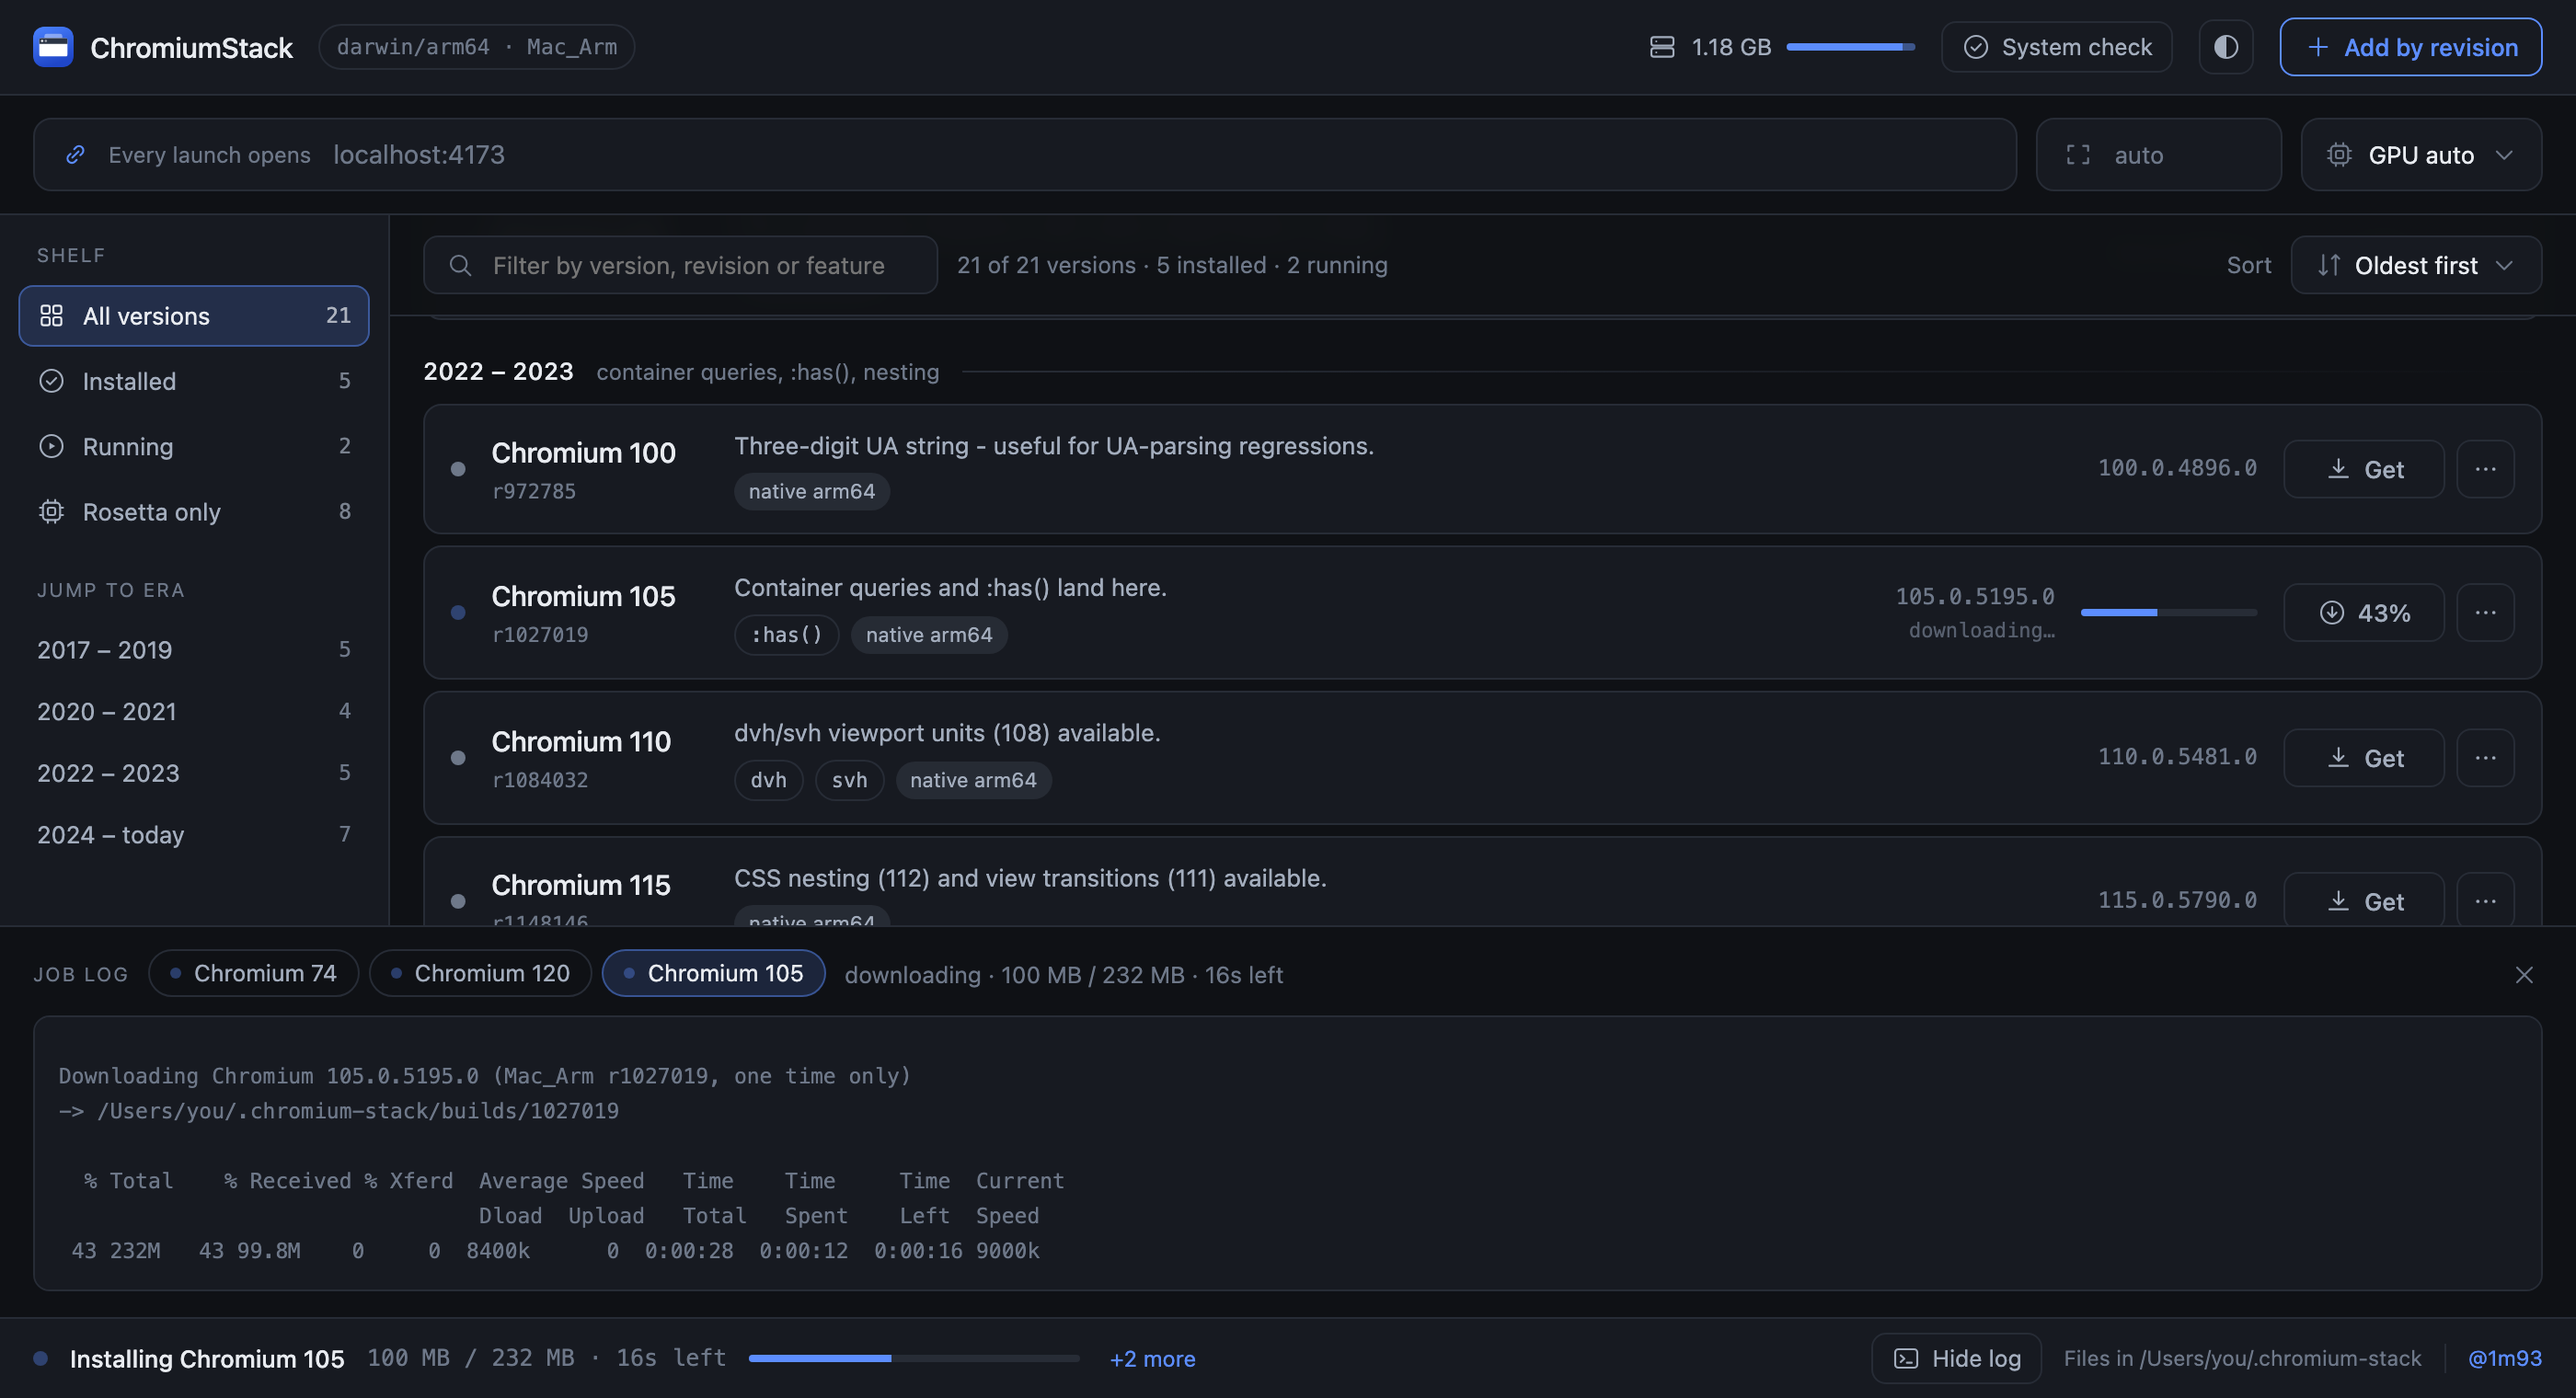
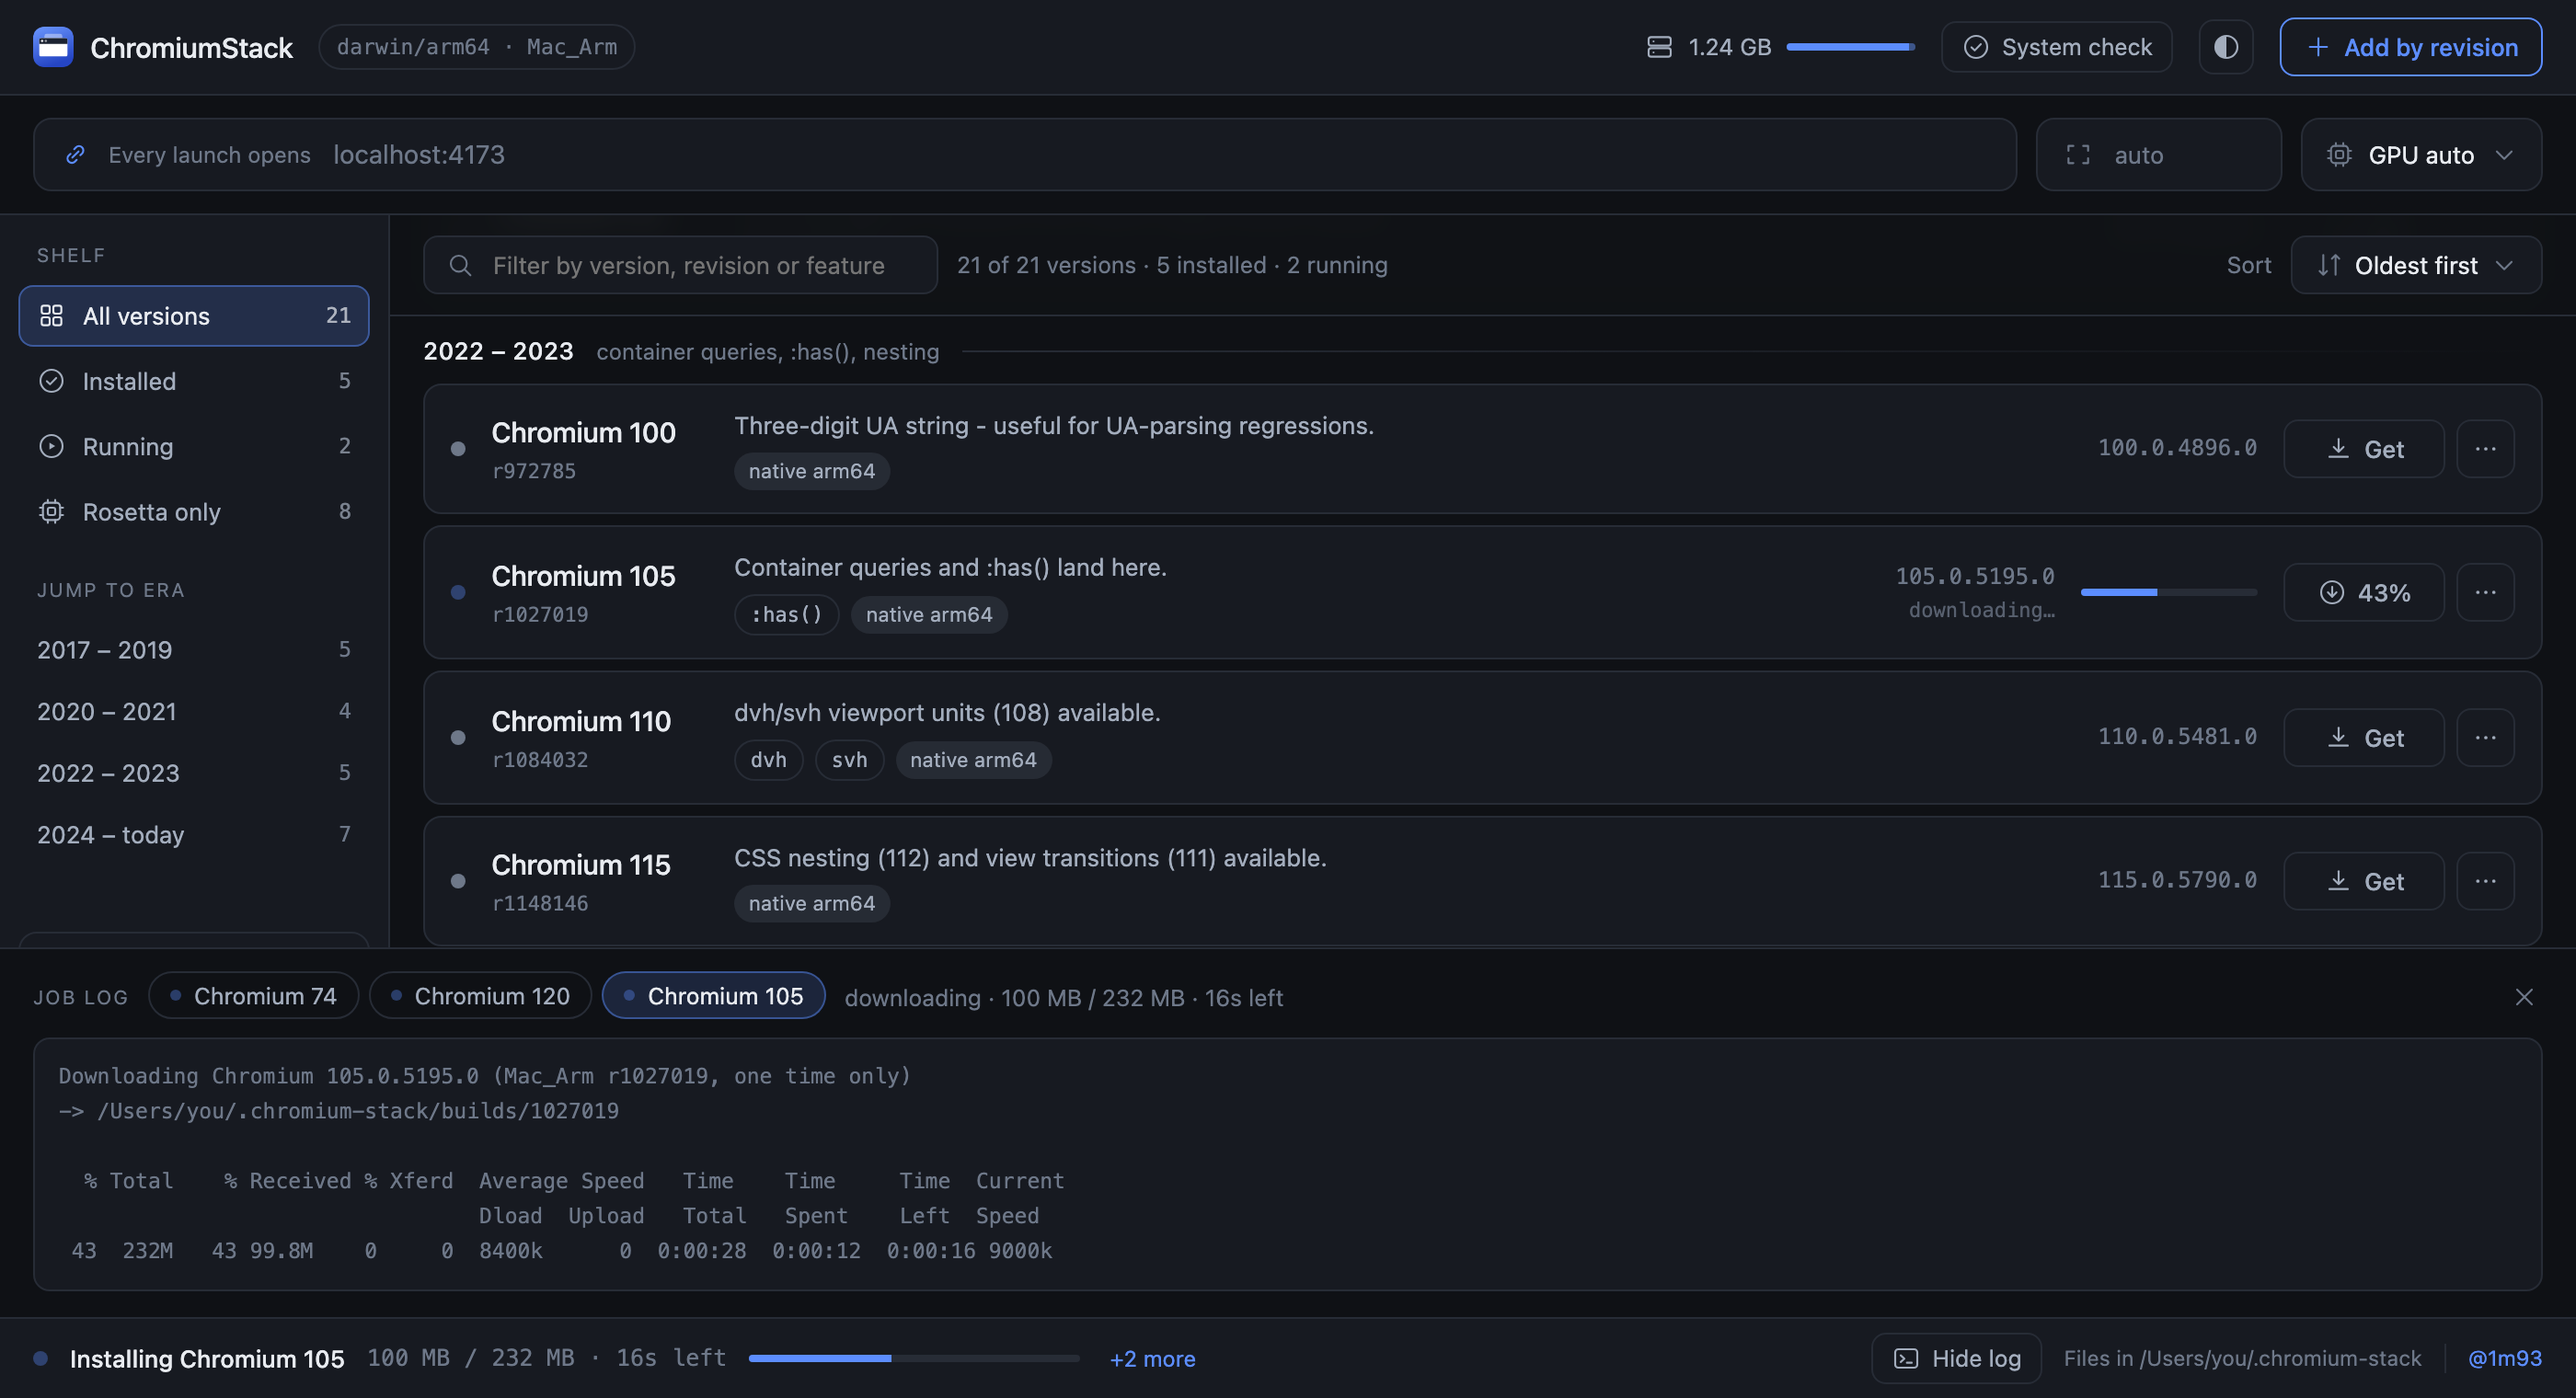
feat: update landing page

diff --git a/docs/index.html b/docs/index.html
@@ -94,6 +94,15 @@ details[open] [data-chev]{transform:rotate(45deg)}
 @keyframes caret{0%,49%{opacity:1}50%,100%{opacity:0}}
 @keyframes pulse{50%{opacity:.3}}
 @keyframes glowdrift{0%,100%{transform:translate(0,0) scale(1)}50%{transform:translate(4%,-3%) scale(1.08)}}
+/* ---------- the same window, dark and light ----------
+   Two identical captures stacked; only the top one animates. The dark frame is
+   what shows at rest, so with animation off the shot still matches the page's
+   own default theme. */
+.shot-swap{position:relative}
+.shot-swap picture{display:block}
+.shot-swap .shot-top{position:absolute;inset:0;animation:shotSwap 16s ease-in-out infinite}
+@keyframes shotSwap{0%,42%{opacity:1}50%,92%{opacity:0}100%{opacity:1}}
+
 /* ---------- the sixty-seconds demo ----------
    One 11s CSS loop drives the whole thing: the three step cards light up in
    turn, the cursor presses Get, the row downloads, then the browser opens.
@@ -227,7 +236,7 @@ details[open] [data-chev]{transform:rotate(45deg)}
       "downloadUrl": "https://github.com/1m93/Chromium-Stack/releases/latest",
       "installUrl": "https://github.com/1m93/Chromium-Stack/releases/latest",
       "softwareHelp": "https://1m93.github.io/Chromium-Stack/#start",
-      "screenshot": "https://1m93.github.io/Chromium-Stack/assets/screenshot-manager.png?v=2",
+      "screenshot": "https://1m93.github.io/Chromium-Stack/assets/screenshot-jobs.png?v=3",
       "image": "https://1m93.github.io/Chromium-Stack/assets/og-image.png?v=2",
       "isAccessibleForFree": true,
       "offers": {
@@ -552,17 +561,7 @@ details[open] [data-chev]{transform:rotate(45deg)}
     </figure>
   </div>
 
-  <figure data-reveal style="margin:52px 0 0">
-    <div style="border:1px solid var(--line);border-radius:16px;overflow:hidden;background:var(--panel);box-shadow:var(--shadow)">
-      <picture>
-        <source srcset="assets/screenshot-manager.webp?v=2" type="image/webp">
-        <img src="assets/screenshot-manager.png?v=2" width="2800" height="1520" loading="lazy" decoding="async" alt="The ChromiumStack manager: every catalogued Chromium milestone grouped by era, five of them installed, Chromium 74 running, each row showing its revision, the features it does and does not have, and what it costs in disk" style="display:block;width:100%;height:auto" />
-      </picture>
-    </div>
-    <figcaption style="margin-top:14px;font-size:13px;line-height:1.6;color:var(--ink-3);max-width:80ch;text-wrap:pretty">Every catalogued milestone on one page, grouped by what it is useful for — which are installed, which run natively, which go through Rosetta, what each is costing you in disk, and one button to open any of them.</figcaption>
-  </figure>
-
-  <div data-reveal style="display:flex;gap:14px;margin-top:26px;padding:18px 20px;border:1px solid color-mix(in srgb,var(--ok) 40%,var(--line));border-radius:12px;background:color-mix(in srgb,var(--ok) 7%,var(--panel))">
+  <div data-reveal style="display:flex;gap:14px;margin-top:34px;padding:18px 20px;border:1px solid color-mix(in srgb,var(--ok) 40%,var(--line));border-radius:12px;background:color-mix(in srgb,var(--ok) 7%,var(--panel))">
     <span style="font-family:var(--mono);font-size:11px;letter-spacing:.06em;text-transform:uppercase;color:var(--ok);padding-top:2px;display:inline-flex;align-items:center;gap:7px"><svg class="ic" aria-hidden="true"><use href="#i-bulb"/></svg><span>Tip</span></span>
     <p style="margin:0;font-size:14.5px;line-height:1.62;color:var(--ink-2)">Type a URL in the box at the top of the manager and <strong style="color:var(--ink);font-weight:600">every</strong> version you launch opens straight to it. <code style="font-family:var(--mono);font-size:13px;color:var(--ink)">localhost:4173</code> is fine — it is the fastest way to compare four engines on the same page.</p>
   </div>
@@ -574,36 +573,19 @@ details[open] [data-chev]{transform:rotate(45deg)}
     <h2 data-reveal style="margin:14px 0 0;max-width:34ch;font-size:clamp(26px,3.2vw,38px);line-height:1.14;letter-spacing:-.028em;font-weight:660;text-wrap:balance">Three versions in flight, one window.</h2>
     <p data-reveal style="margin:16px 0 0;max-width:58ch;font-size:16px;line-height:1.65;color:var(--ink-2)">Downloads, launches, profile resets and Docker containers all report into the same strip along the bottom — and the log remembers every one of them.</p>
 
-    <figure data-reveal style="margin:44px 0 0">
-      <div style="border:1px solid var(--line);border-radius:16px;overflow:hidden;background:var(--panel);box-shadow:var(--shadow)">
+    <figure data-reveal data-demo style="margin:44px 0 0">
+      <div class="shot-swap" style="border:1px solid var(--line);border-radius:16px;overflow:hidden;background:var(--panel);box-shadow:var(--shadow)">
         <picture>
-          <source srcset="assets/screenshot-jobs.webp?v=2" type="image/webp">
-          <img src="assets/screenshot-jobs.png?v=2" width="2800" height="1520" loading="lazy" decoding="async" alt="Three jobs running at once: Chromium 105 downloading at 43 percent with 100 MB of 232 MB transferred and 16 seconds left, two other versions already open, and the job log switching between all three" style="display:block;width:100%;height:auto" />
+          <source srcset="assets/screenshot-jobs-light.webp?v=2" type="image/webp">
+          <img src="assets/screenshot-jobs-light.png?v=2" width="2800" height="1520" loading="lazy" decoding="async" alt="The same window in the light theme" style="display:block;width:100%;height:auto" />
+        </picture>
+        <picture class="shot-top">
+          <source srcset="assets/screenshot-jobs.webp?v=3" type="image/webp">
+          <img src="assets/screenshot-jobs.png?v=3" width="2800" height="1520" loading="lazy" decoding="async" alt="Three jobs running at once: Chromium 105 downloading at 43 percent with 100 MB of 232 MB transferred and 16 seconds left, two other versions already open, and the job log switching between all three" style="display:block;width:100%;height:100%;object-fit:cover" />
         </picture>
       </div>
-      <figcaption style="margin-top:14px;font-size:13px;line-height:1.6;color:var(--ink-3);max-width:80ch;text-wrap:pretty">One version downloading, two already open. The download shows the bytes and the time left rather than a spinner, the log keeps a tab per job, and the bar at the bottom follows whichever one you picked.</figcaption>
+      <figcaption style="margin-top:14px;font-size:13px;line-height:1.6;color:var(--ink-3);text-wrap:pretty">One version downloading, two already open. The download shows the bytes and the time left rather than a spinner, the log keeps a tab per job, and the bar at the bottom follows whichever one you picked. The window follows your system theme — or pin it light or dark from the header, as it is doing here.</figcaption>
     </figure>
-
-    <div style="display:grid;grid-template-columns:repeat(auto-fit,minmax(320px,1fr));gap:26px;margin-top:34px">
-      <figure data-reveal style="margin:0">
-        <div style="border:1px solid var(--line);border-radius:14px;overflow:hidden;background:var(--panel);box-shadow:var(--shadow)">
-          <picture>
-            <source srcset="assets/screenshot-light.webp?v=2" type="image/webp">
-            <img src="assets/screenshot-light.png?v=2" width="1600" height="869" loading="lazy" decoding="async" alt="The same version shelf in the light theme" style="display:block;width:100%;height:auto" />
-          </picture>
-        </div>
-        <figcaption style="margin-top:12px;font-size:13px;line-height:1.6;color:var(--ink-3);text-wrap:pretty">Follows your system theme, or pin it light or dark from the header.</figcaption>
-      </figure>
-      <figure data-reveal style="margin:0">
-        <div style="border:1px solid var(--line);border-radius:14px;overflow:hidden;background:var(--panel);box-shadow:var(--shadow)">
-          <picture>
-            <source srcset="assets/screenshot-check.webp?v=2" type="image/webp">
-            <img src="assets/screenshot-check.png?v=2" width="1600" height="869" loading="lazy" decoding="async" alt="The system check panel listing curl, Python 3 and Rosetta 2 as present and Docker as missing, with the exact install command and an Install button beside it" style="display:block;width:100%;height:auto" />
-          </picture>
-        </div>
-        <figcaption style="margin-top:12px;font-size:13px;line-height:1.6;color:var(--ink-3);text-wrap:pretty">It says what is missing, why it matters, and runs the install for you. Only a genuine blocker interrupts you on the way in.</figcaption>
-      </figure>
-    </div>
   </div>
 </section>
 
@@ -1029,15 +1011,14 @@ details[open] [data-chev]{transform:rotate(45deg)}
 
   /* ---------- the sixty-seconds demo ---------- */
   // The loop is CSS; all this does is stop it burning cycles off screen.
-  const demo = document.querySelector('[data-demo]');
-  if (demo) {
-    if (reduced || !('IntersectionObserver' in window)) {
-      demo.removeAttribute('data-play');          // the still frame is the point
-    } else {
-      new IntersectionObserver(entries => {
-        entries.forEach(e => e.target.toggleAttribute('data-play', e.isIntersecting));
-      }, {rootMargin: '15% 0px'}).observe(demo);
-    }
+  const loops = document.querySelectorAll('[data-demo]');
+  if (reduced || !('IntersectionObserver' in window)) {
+    loops.forEach(el => el.removeAttribute('data-play'));   // the still frame is the point
+  } else {
+    const io2 = new IntersectionObserver(entries => {
+      entries.forEach(e => e.target.toggleAttribute('data-play', e.isIntersecting));
+    }, {rootMargin: '15% 0px'});
+    loops.forEach(el => io2.observe(el));
   }
 
   /* ---------- hero counters ---------- */
